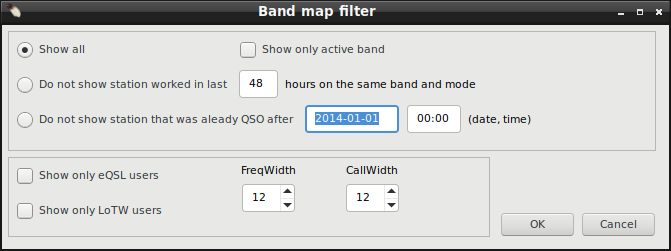
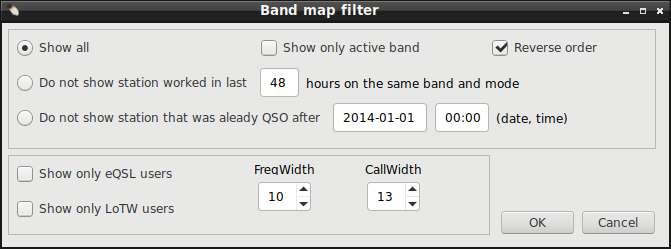
Fix to Band Map
Added checkbox "reverse order"  that affects to spot sorting order.
        When reversed shows microwawe bands first LF bands last if all band
        spots are shown.
        If only active band is shown shows SSB spots first if reversed as
        CW part of band is normally the low edge.
        If not reverse order (that is default) shows CW spots first as before.

Squashed commit of the following:

commit ac022244db1937b59648dd48dbe867d594f78023
Merge: ac7ebb5 ddb64e8
Author: OH1KH <oh1kh@sral.fi>
Date:   Tue Oct 12 19:13:05 2021 +0300

    Merge branch 'master' into reverse_bandmap

commit ac7ebb55ef7afbbd0ce068e976ad81a4e3404d06
Author: OH1KH <oh1kh@sral.fi>
Date:   Mon Oct 11 12:08:17 2021 +0300

    Fix to Band Map

    	Added checkbox "reverse order"  that affects to spot sorting order.
    	When reversed shows microwawe bands first LF bands last if all band
    	spots are shown.
    	If only active band is shown shows SSB spots first if reversed as
    	CW part of band is normally the low edge.
    	If not reverse order (that is default) shows CW spots first as before.

diff --git a/help/h21.html b/help/h21.html
@@ -226,7 +226,9 @@ So any time you like you can make it larger and chat lines are there to check.</
                 QSO logging.<br><br>
                 If the entry becomes older than the set time, it is displayed in a lighter color. Very old
                 entries will disappear, also if you log the station, the corresponding entry disappears
-                from the band map. The entries are always sorted by frequency.
+                from the band map. 
+                <br><br>The entries are always sorted by frequency. Default order is for lowest to higest. This can be reversed with checkbox <b>Reverese order</b>.
+                <br>With normal order and <b>Show active band</b> checked this shows CW spots first (CW is normally at band low edge). Cheking <b>Reverse order</b> will then show SBB spots first.
                 <br><br>When band map form is active new spots are not added. This helps to locate needed
                 line from all spot lines. Form name changes to <b>BM PAUSED!</b> to remind that nothing will be
                  added until focus is moved to any other form by a mouse click.
